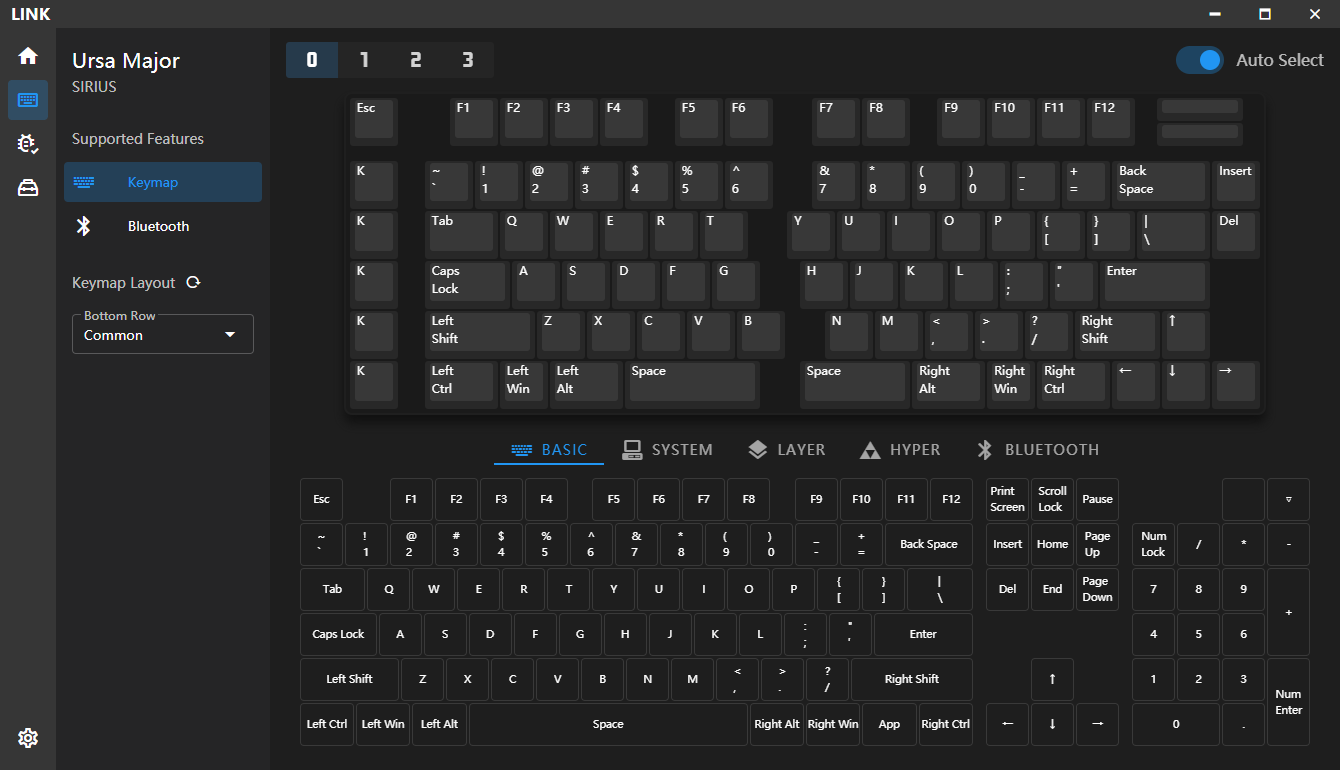
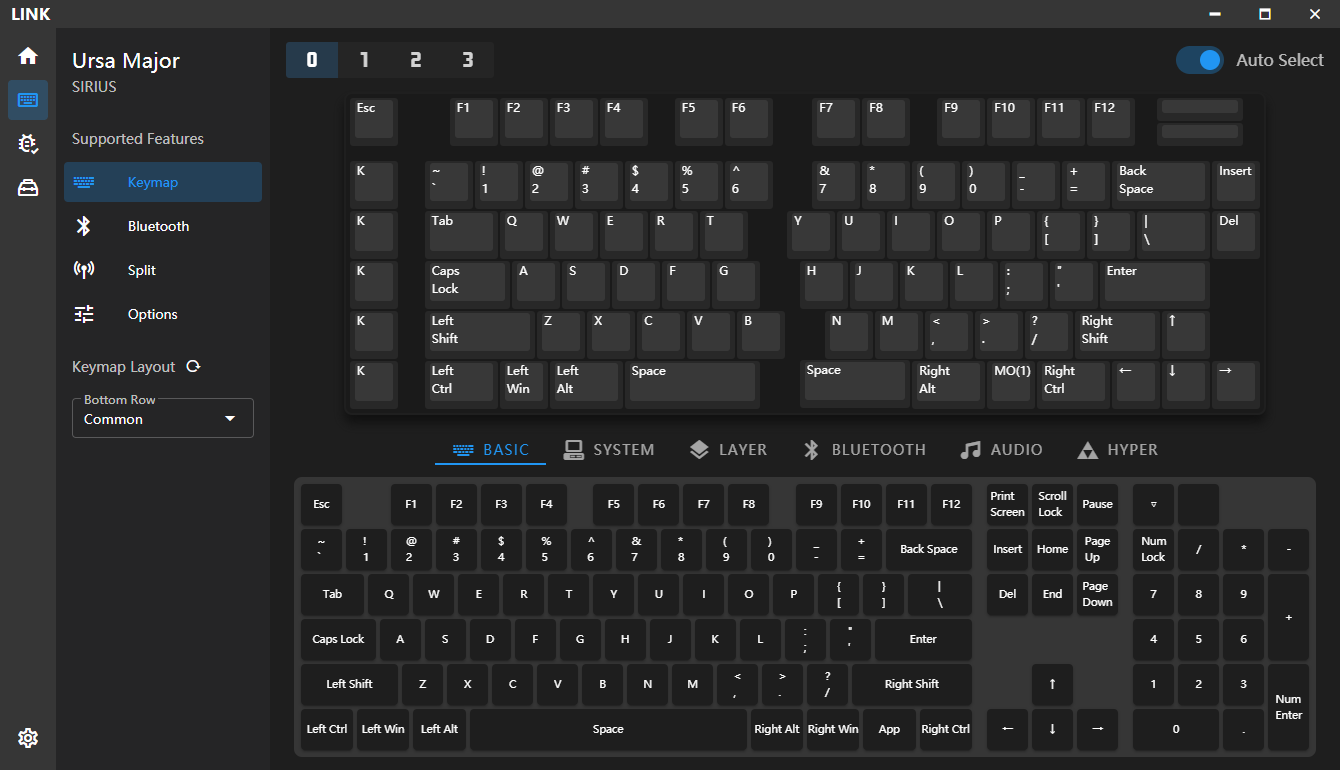
Update support list.

diff --git a/SUPPORT.md b/SUPPORT.md
@@ -8,6 +8,13 @@ https://www.lnelab.com/docs/support/supported-devices
 
 
 ## Release Notes
+### v1.3.13
+* Add new keyboards: Manta
+* Add keycoder Helper Toast, plan to add more comment for advanced keycodes.
+* Update style of basic keycodes.
+* Add new feature: Split Controller
+* Adjust UI & Layout.
+
 ### v1.3.12
 * Add new keyboards: CAPSULE65
 * Add audio keycodes.
